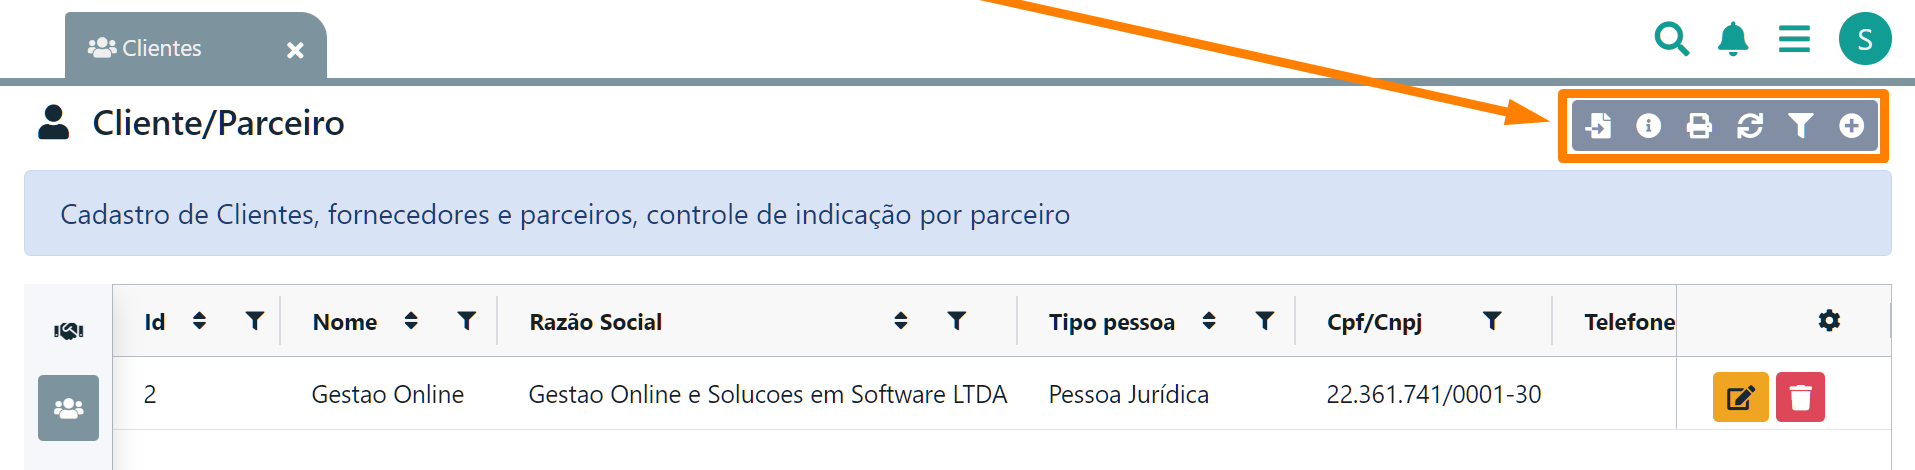
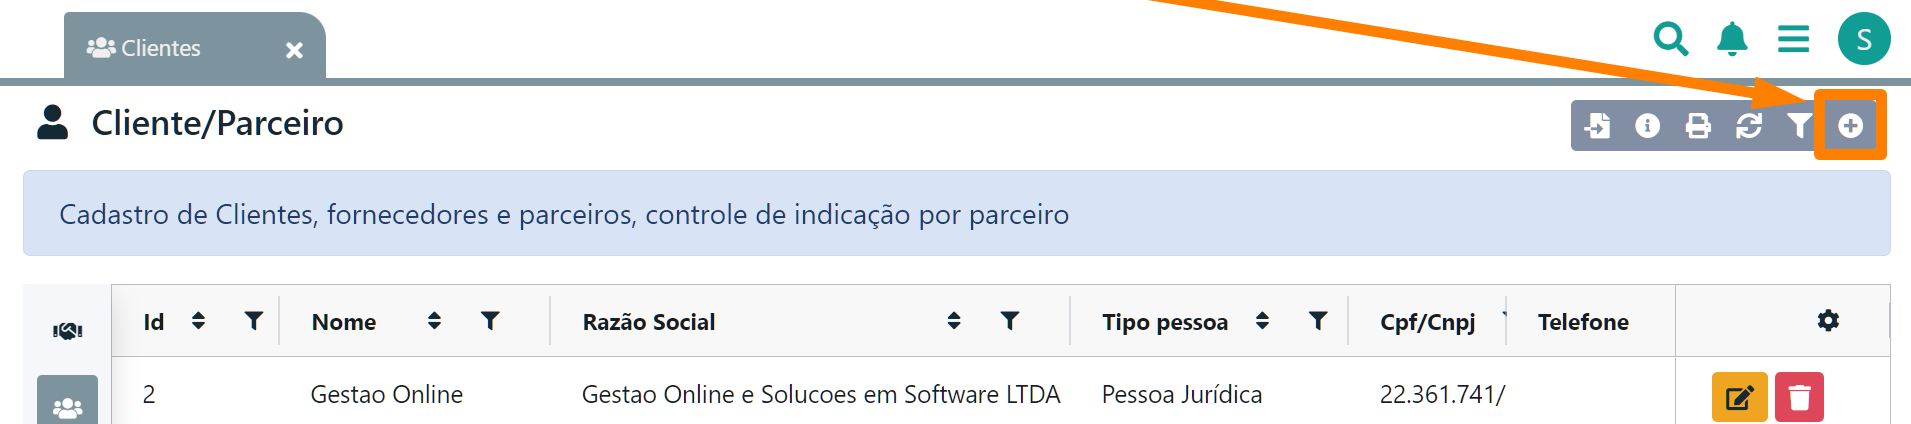
Aba fornecedores - menu adicionar

diff --git a/erp-v2/funcionalidades/parceiros/fornecedores.md b/erp-v2/funcionalidades/parceiros/fornecedores.md
@@ -31,4 +31,11 @@ Nesta aba tem um menu ao lado direito da tela com as seguintes funções:
 **Mouse:** Caso queira informações sobre como utilizar as funções do botão direito do mouse [**`clique aqui`**](https://docs.gestao.plus/erp-v2/primeiro_acesso/atalhos_internos#menu-botao-direito-do-mouse).
 {% endhint %}
 
-![](/erp-v2/assets/funcionalidades/parceiros/aba_clientes_menu.png)
+![](/erp-v2/assets/funcionalidades/parceiros/aba_fornecedores_menu.png)
+
+## Adicionar novo fornecedor
+
+No menu ao lado direito da tela, tem o botão <img src="/erp-v2/assets/icon_add.png" alt="" data-size="line"> adicionar um novo fornecedor, confira abaixo o procedimento para fazer o cadastro corretamente:
+
+![](/erp-v2/assets/funcionalidades/parceiros/aba_fornecedores_add.png)
+
